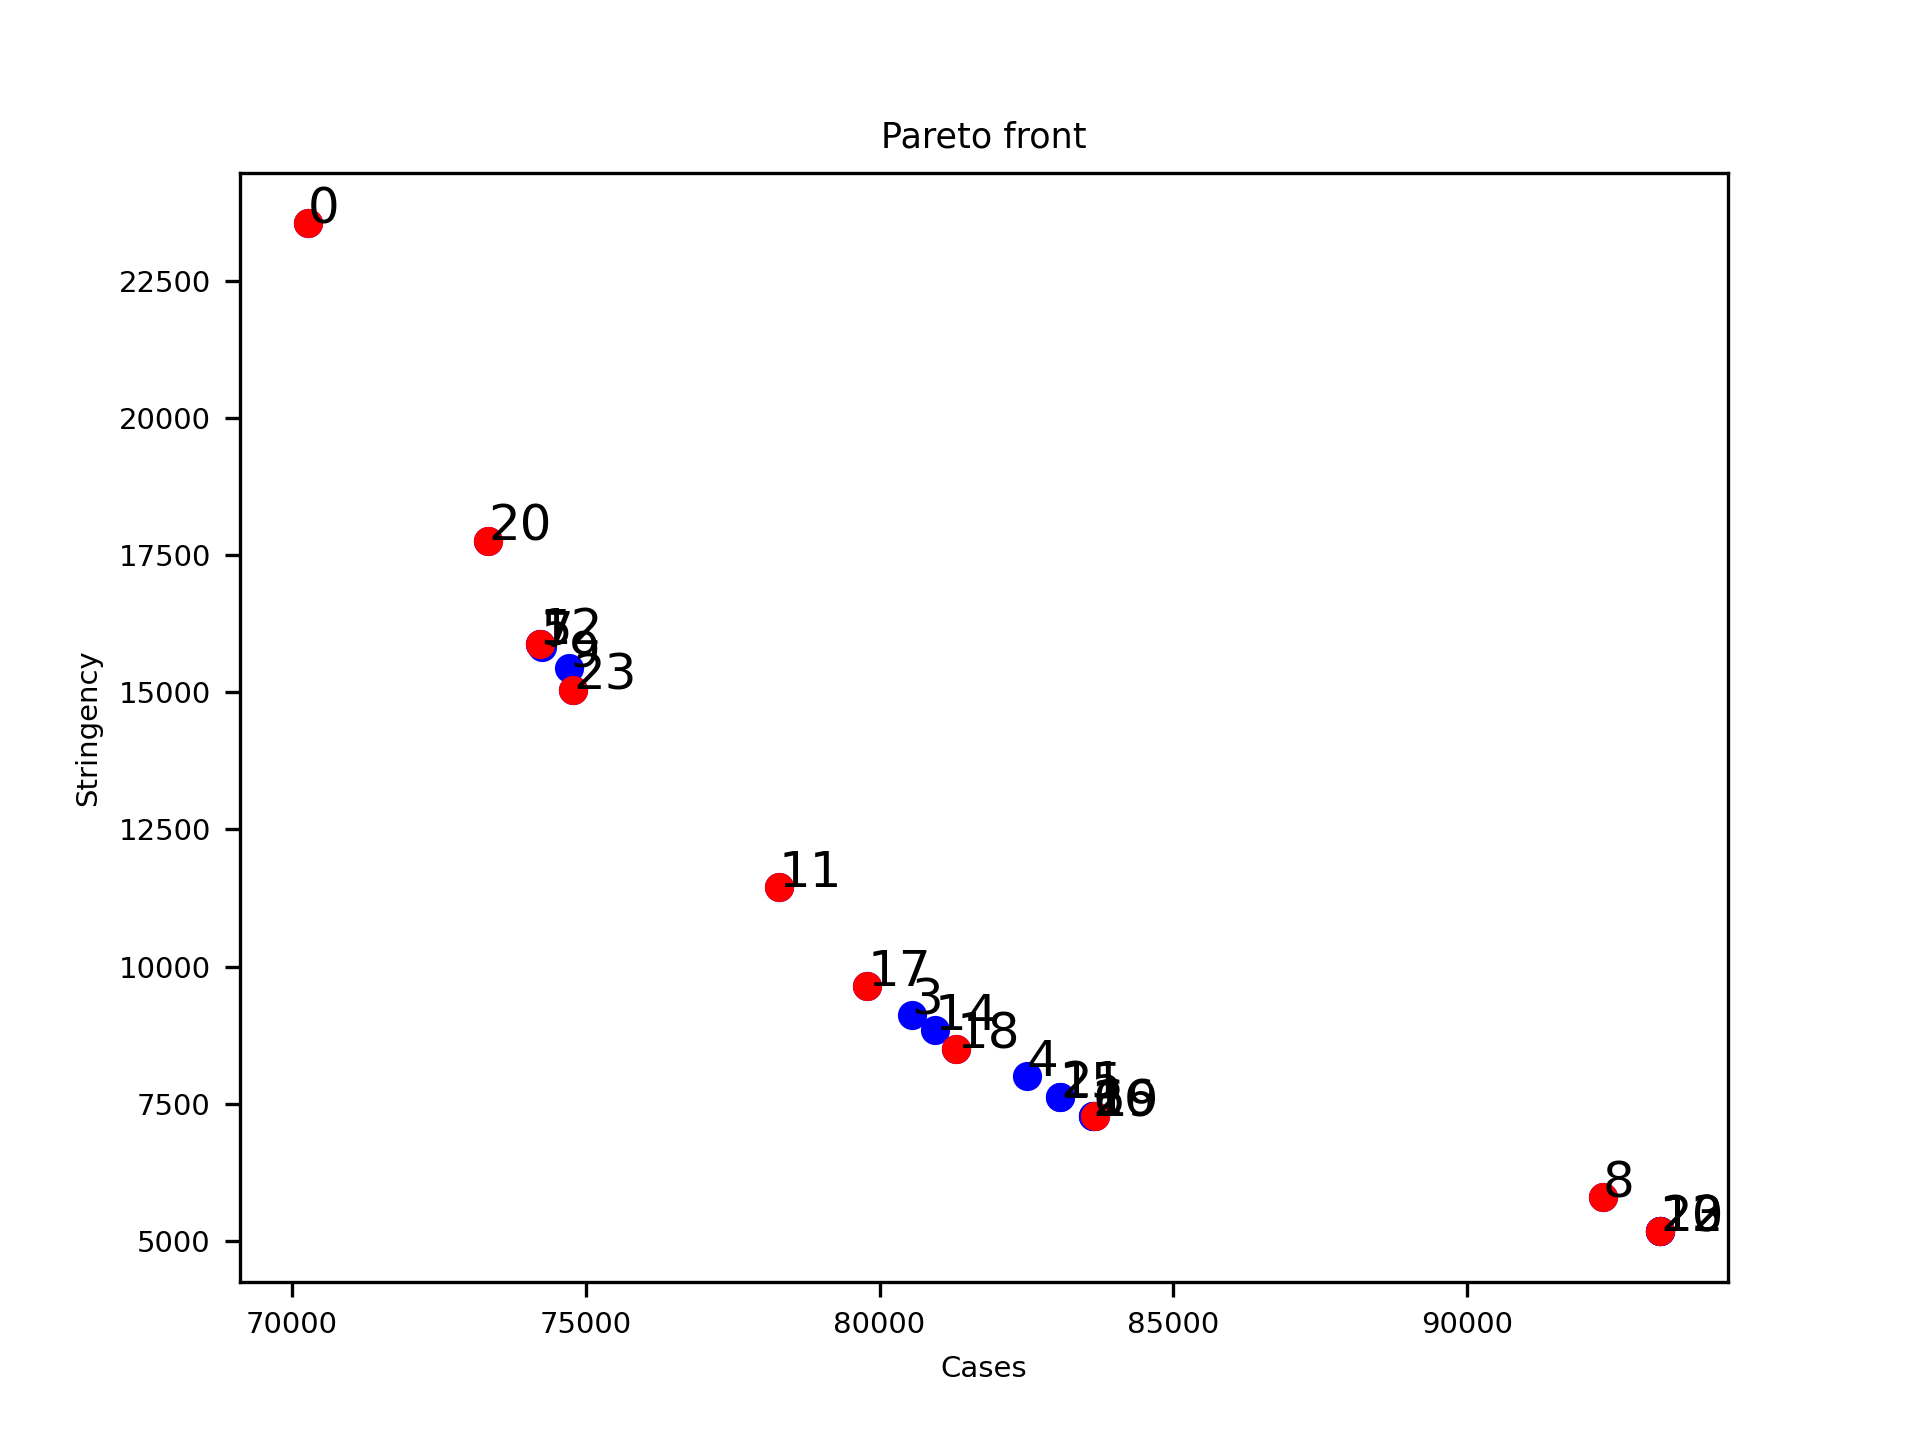
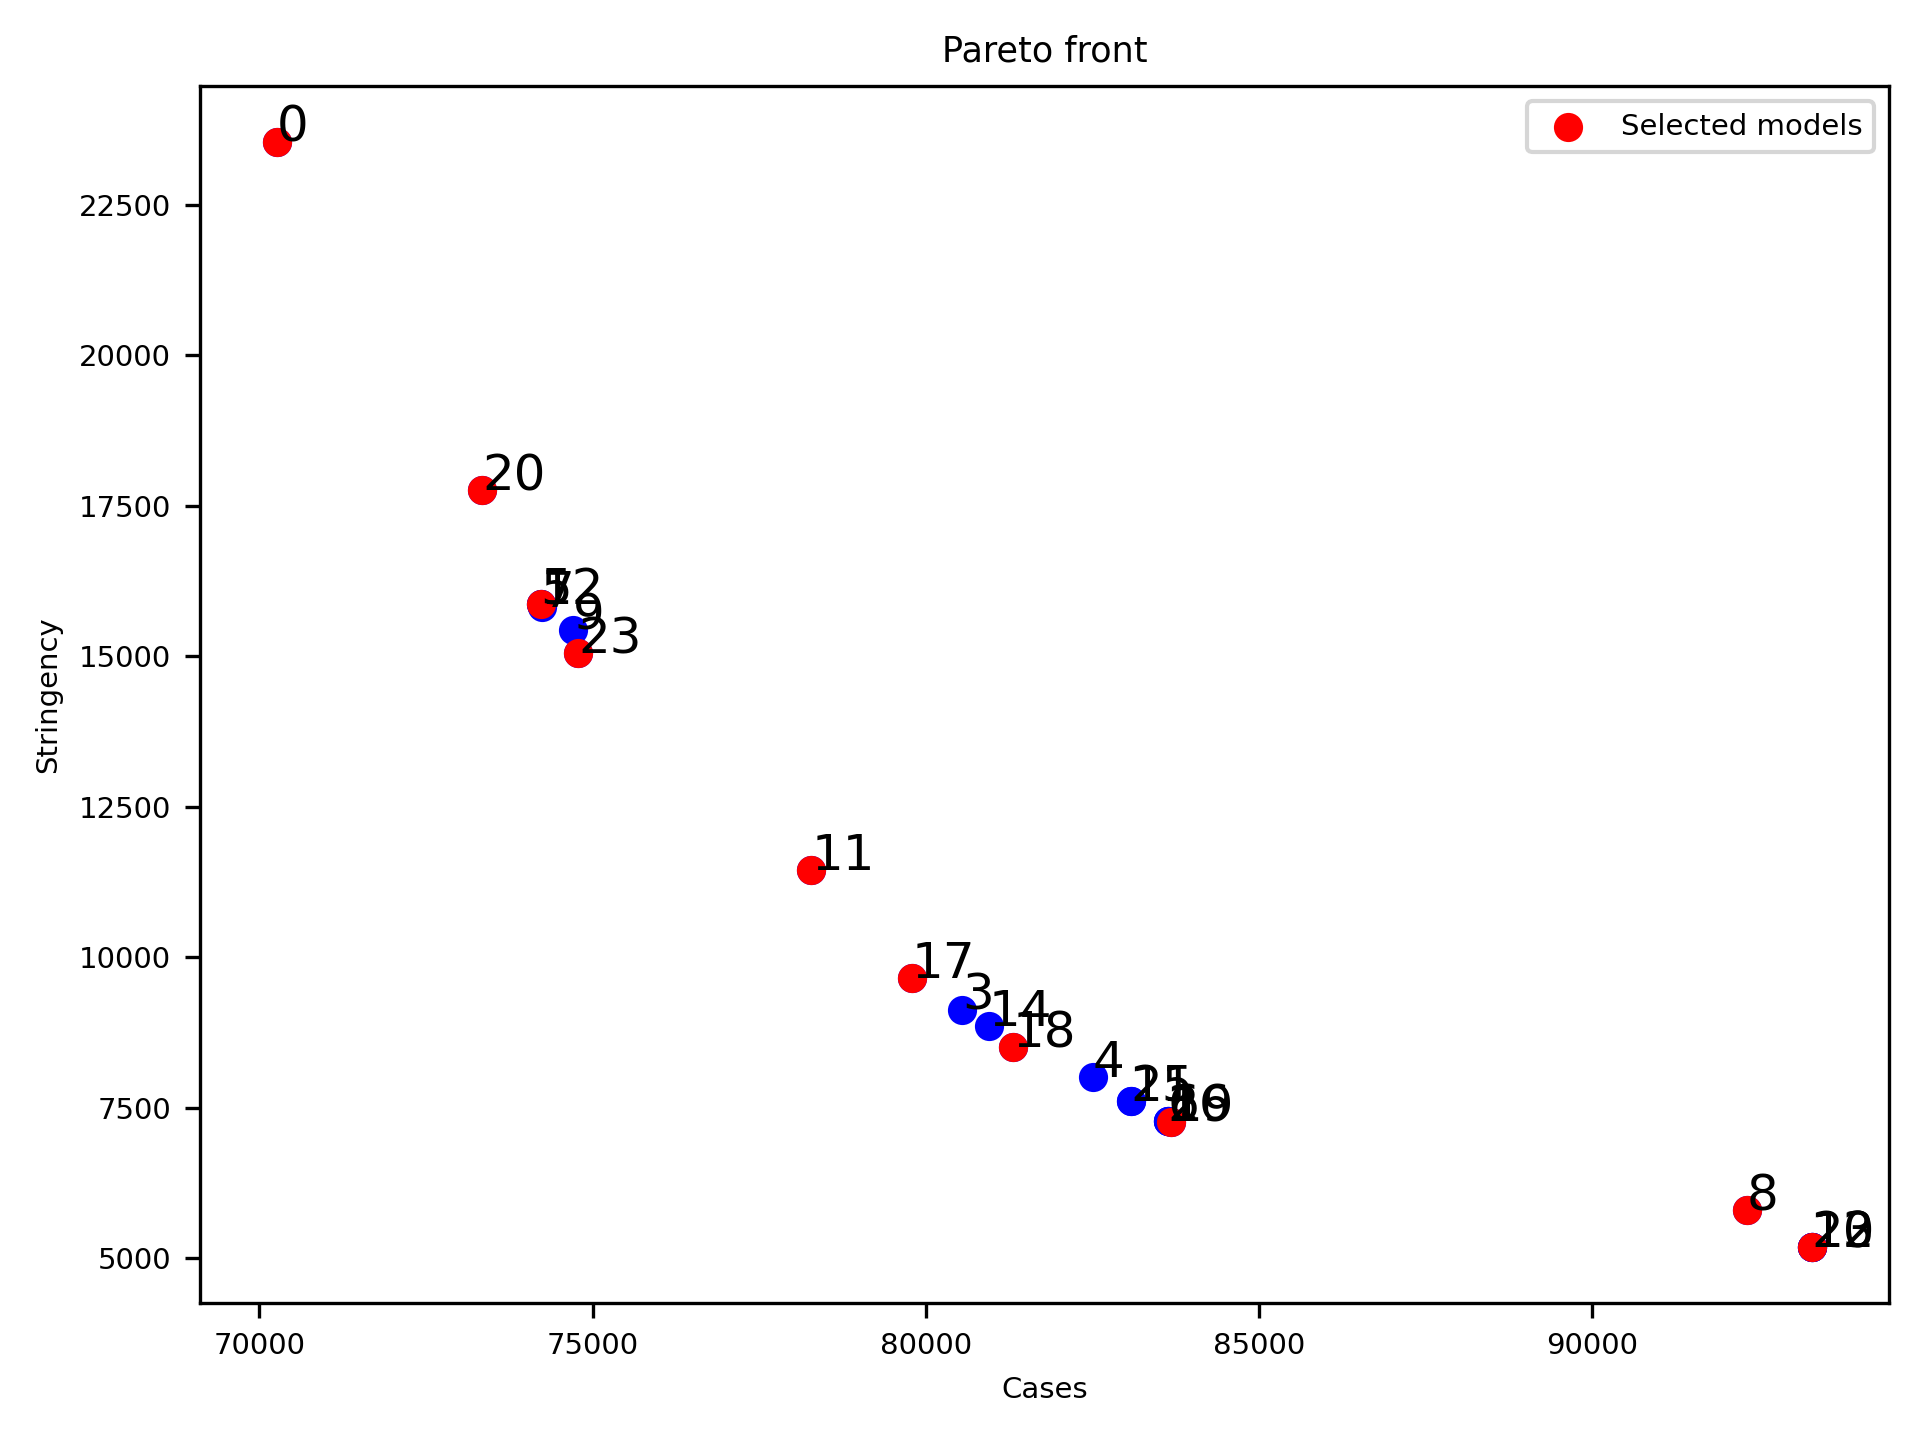
selecting pareto

diff --git a/prescribe/run_trained/select_front.py b/prescribe/run_trained/select_front.py
@@ -29,16 +29,19 @@ def select_top10(total_front,selected_front,population,outdir):
     for i in range(len(total_front)):
         plt.scatter(total_front[i,0], total_front[i,1], c="b")
         plt.text(total_front[i,0], total_front[i,1],str(i), fontsize=12)
-        if i in selected_front:
-            plt.scatter(total_front[i,0], total_front[i,1], c="r")
+
+    #Plot the selected front
+    plt.scatter(total_front[selected_front,0], total_front[selected_front,1], c="r",label='Selected models')
 
     plt.xlabel('Cases')
     plt.ylabel('Stringency')
     plt.title('Pareto front')
+    plt.legend()
+    plt.tight_layout()
     plt.savefig(outdir+'sel_front.png',dpi=300)
     plt.close()
-    pdb.set_trace()
 
+    #Save the selected front
     sel_pop = population[selected_front]
     np.save(outdir+'selected_population.npy',sel_pop)
 
@@ -50,4 +53,3 @@ total_front = np.load(args.total_front[0],allow_pickle=True)
 selected_front = np.array(args.selected_front[0].split(','),dtype='int32')
 outdir = args.outdir[0]
 select_top10(total_front,selected_front,population,outdir)
-pdb.set_trace()

diff --git a/prescribe/run_trained/prescribe.py b/prescribe/run_trained/prescribe.py
@@ -90,7 +90,7 @@ def load_model():
     predictor.load_weights(MODEL_WEIGHTS_FILE)
 
     #Save
-    prescriptor_weights = np.load('./prescr_weights/population.npy',allow_pickle=True)
+    prescriptor_weights = np.load('./prescr_weights/selected_population.npy',allow_pickle=True)
 
     return predictor, prescriptor_weights
 
